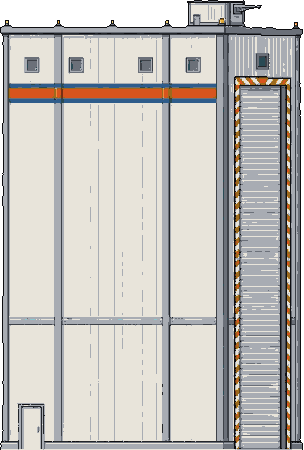
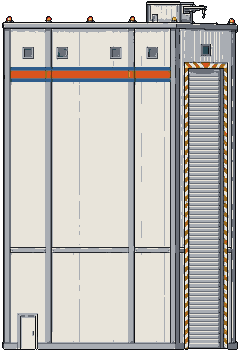
Use the cleaned-up launch base sprites from the asset editor
The asset editor cleaned the Gemini art at 2 source pixels a sprite pixel,
so the buildings come out about a fifth smaller at 5 cm a pixel. Floors,
ladders, doors, terminals, where each building meets the ground, and the
layout are re-marked on the new art, and the pad is 8 m clear beside the
tower. The old slicer would overwrite the cleaned art, so it's gone.

diff --git a/docs/DESIGN.md b/docs/DESIGN.md
@@ -21,6 +21,7 @@ Change log (newest first):
 
 | Date | Change |
 | --- | --- |
+| 2026-11-10 | Launch base art replaced with the cleaned-up sprites from Manny's asset editor, used at 5 cm a pixel, so the buildings are about a fifth smaller, with doors about the pilot's height. Floors, ladders, doors, terminals, and the layout re-marked to match; the old slicer is gone \[Leaning\] |
 | 2026-11-10 | Moon base planned, on Manny's call: the launch base's three buildings again, built for an airless moon, with sandbagged roofs, a sealed hab entered through an airlock, a lighter tower with propellant tanks, and a pad of fused moon dust. Its pad is the moon's landing pad for cargo \[Leaning\] |
 | 2026-11-10 | Walking into the launch base's buildings: ENTER at a door fades the front wall off, floors and ladders inside, terminals, and EXIT \[Leaning\] |
 | 2026-11-10 | Launch base buildings solid to ships, except the tower's swing arms; the pilot walks in front of them \[Leaning\] |
@@ -382,11 +383,11 @@ Places on worlds: \[Leaning\]
 - Rooms in surface buildings are sized for the pilot, so a room is about 60 px tall next to a 40 px pilot, and the 211 px lander reads as about 10 m tall. Walking around buildings makes the pilot's scale the one players see, which leans the open scale question toward the pilot. \[Leaning\]
 - The first place on a world is a launch base on the home planet, on Manny's call, ahead of the moon's landing pad. It has three buildings: a vehicle assembly building, a launch and landing tower beside a pad, and mission control, which houses the mission computer. \[Leaning\]
 - Each building is Gemini concept art cut into sprites, the way the station's rooms are: its outside and a cutaway with the front wall gone, on one canvas, at the pilot's scale of 5 cm a pixel. A reference astronaut drawn in each image sets the scale when it's cut. Floors, ladders, doors, and terminals are marked in data, the way station rooms mark their floors. The prompts, templates, and references are in `art/launch_base/source/`. \[Leaning\]
-- Cut, 2026-11-10: Gemini drew the base as smooth illustrations, not on big square pixels, so `tools/slice_launch_base.gd` scales them down by their doors, at 0.65 world units a source pixel, rather than by its tiny astronauts. Each sprite pixel takes the commonest agency color under it, leaning dark so the outlines survive. The buildings come out at the ships' and pilot's 5 cm a pixel, not the station's double size: the assembly building 304 x 450 px (15 x 22.5 m), the tower and pad 330 x 450 px, and mission control 302 x 209 px, with its two floors about 3.5 m each. \[Leaning\]
-- Placed, 2026-11-10: the base stands on the home planet about 1.8 km along the ground from where the ship starts above it, on dry land at column 17,940. The physics core levels the ground there to its average height across the base's 69 m, blending back into the terrain over 8 m each side, so physics and drawing agree. Props keep off it. The tower's art sits 2 m into the ground, so the pad's slab is flush and ships and the pilot step straight onto it. A site's data says which world, which column, its buildings and where each stands, and its pad. From far out it's an orange dot on the rim, and it can be tapped, focused, carded, and targeted like the station. \[Leaning\]
+- Art, 2026-11-10: the sprites come from Manny's asset editor, which cleaned up the same Gemini images at 2 source pixels to a sprite pixel: magenta and its spill keyed out, the reference astronauts removed, windows and truss gaps see-through, agency colors only, and outlined. Manny's call, replacing the first cut by `tools/slice_launch_base.gd`, which is gone. They're used at 5 cm a pixel like the ships and pilot, never resized, so the buildings came out about a fifth smaller than that first cut: the assembly building 242 x 354 px (12 x 17.5 m), the tower and pad 264 x 364 px, and mission control 240 x 176 px, with its floors 2.5 m apart and about 2.2 m of headroom. Doors are about the pilot's height. \[Leaning\]
+- Placed, 2026-11-10: the base stands on the home planet about 1.8 km along the ground from where the ship starts above it, on dry land at column 17,940. The physics core levels the ground there to its average height across the base's 69 m, blending back into the terrain over 8 m each side, so physics and drawing agree. Props keep off it. The tower's art sits 1.7 m into the ground, so the pad's slab is flush and ships and the pilot step straight onto it. A site's data says which world, which column, its buildings and where each stands, and its pad. From far out it's an orange dot on the rim, and it can be tapped, focused, carded, and targeted like the station. \[Leaning\]
 - The buildings are solid to ships, like the station: a ship bounces off what it touches and takes damage above its safe speed, with a BUILDING COLLISION warning. The tower's swing arms aren't solid, since they swing clear of a ship coming down onto the pad. The pilot isn't stopped by them: in a side view they stand behind the ground the pilot walks along, so the pilot passes in front and goes in through doors. \[Leaning\]
 - Walking in, built: at a building's door, ENTER takes the pilot inside and its front wall fades off, the way a station's roof does. Inside, floors are level and their ends are the walls. Up and down climb a ladder, seen from behind, and left or right steps off onto a floor it reaches. Terminals offer USE TERMINAL, and the door offers EXIT, back onto the ground outside. Each building's floors, ladders, door, and terminals are marked on its art in the site's data. Mission control's mission computer is upstairs, and says NO MISSIONS POSTED YET until gigs exist; the assembly building's control booth is on its top catwalk. No jumping indoors. The comms line says which building the pilot's in. \[Leaning\]
-- Layout, left to right: the assembly building, 11.5 m wide and 15 m tall, with its vehicle door toward the pad; 6 m of apron; the 13 m pad, with the 18 m tower at its left edge and its crew and fuel arms reaching over a landed ship; a 10 m gap; and mission control, 14 m wide and two floors tall, with a dish on the roof. About 57 m end to end, or 23 seconds on foot. Each building is placed by the site's data, so the spacing can change without new art. \[Leaning\]
+- Layout, left to right: the assembly building, 12 m wide and 17.5 m tall, with its vehicle door toward the pad; 6 m of apron; the 12.5 m pad, with the 16 m tower at its left end, 8 m clear beside it for a ship, and its crew and fuel arms reaching over a landed one; a 10 m gap; and mission control, 11 m wide and two floors tall, with a dish on the roof. About 51 m end to end, or 21 seconds on foot. Each building is placed by the site's data, so the spacing can change without new art. \[Leaning\]
 - What each does at first: the pad is where ships land at the base, on flattened ground; the mission computer is a terminal, like the station's gig board; the assembly building can be walked into, and later becomes where player-built ships are made, behind a flag. The tower's crew arm is art for now. \[Leaning\]
 - Moon base, planned on Manny's call: the launch base's three buildings, built by the same agency for an airless moon. The hangar shelters ships from dust, sun, and tiny meteorites but isn't airtight, with a sealed control booth on its top catwalk. The tower is a lighter truss, since gravity's weak, with a sealed boarding room on its crew arm, gold-foiled fuel lines, and round propellant tanks at its foot; the pad is moon dust fused into a slab, with no flame trench. Mission control is a sealed two-floor hab entered through an airlock, with small thick windows. Roofs carry sandbags of moon dust as shielding, with solar panels, radiators, and a dish aimed at the home planet. Same sizes as the launch base, so the lander fits the hangar, but the pad stands about 10 to 13 m clear of the buildings, since a landing sprays dust. Gemini draws each one with the launch base's matching image attached for style. The prompts, templates, and reference are in `art/moon_base/source/`. \[Leaning\]
 

diff --git a/docs/LEARNING_LOG.md b/docs/LEARNING_LOG.md
@@ -517,3 +517,11 @@ Files: `scripts/pilot.gd`, `scripts/pilot_data.gd`, `scripts/pilot/astronaut_vie
 - a state machine with a new state (indoors), and its ways in and out
 - local coordinates on a picture, turned into world coordinates
 - fading with alpha (modulate) toward a target over time
+
+## 2026-11-10: Cleaned-up launch base art
+
+Files: `art/launch_base/*.png`, `data/launch_base.tres`, `docs/DESIGN.md`, removed `tools/slice_launch_base.gd`
+
+- art coordinates kept in data, so new art means new numbers, not new code
+- a sprite's transparent margin and where its ground line sits (sink)
+- Godot reimporting a changed texture
